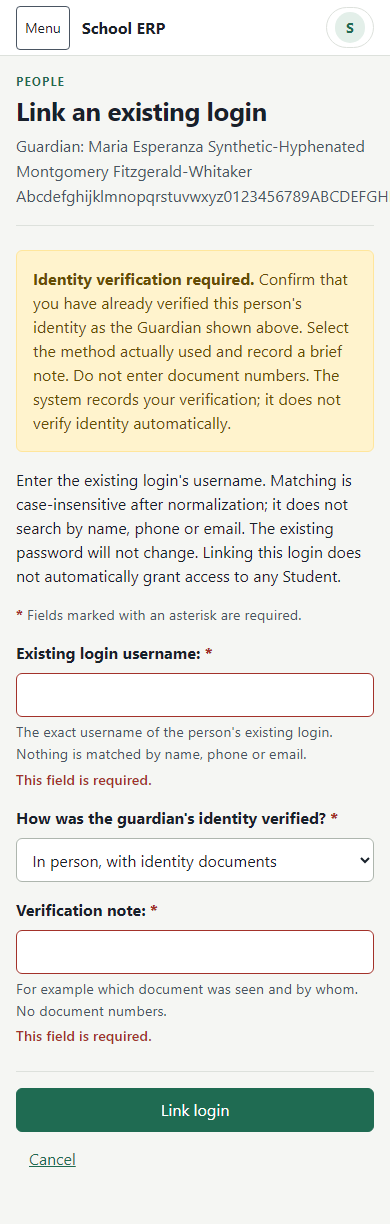
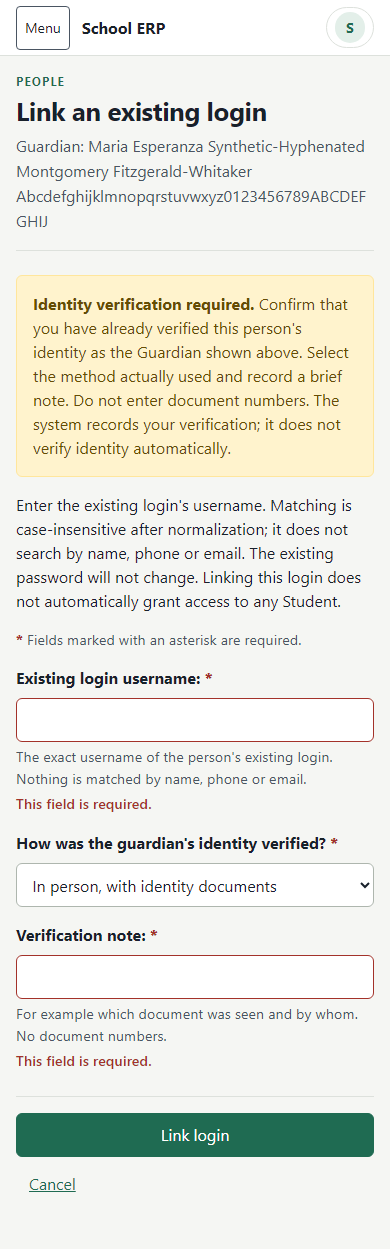
ui(guardian): wrap long unbroken names in the account form purpose line (D1-3D2 task 3)

diff --git a/static/css/erp.css b/static/css/erp.css
@@ -1278,3 +1278,7 @@ th[aria-sort="descending"] .erp-sort-link::after { content: " \25BC"; font-size:
    phone grid track and clipping. Scoped to the Guardian form wrapper so shared headers are unchanged. */
 .erp-guardian-form-page .erp-page-title { overflow-wrap: break-word; min-width: 0; }
 @media (max-width: 767.98px) { .erp-guardian-form-page .erp-page-header { grid-template-columns: minmax(0, 1fr); } }
+
+/* UI-D1-3D2 review fix: the "Guardian: <name>" purpose line wraps a long unbroken name instead of running
+   past the right gutter on phones. Scoped to the Guardian form wrapper so shared headers are unchanged. */
+.erp-guardian-form-page .erp-page-purpose { overflow-wrap: break-word; min-width: 0; }

diff --git a/core/tests/test_ui_admin_desktop_d1_3d2_guardian_account_form.py b/core/tests/test_ui_admin_desktop_d1_3d2_guardian_account_form.py
@@ -294,3 +294,18 @@ class GuardianAccountFormD13D2Tests(TestCase):
                 self.assertIn("login", response["Location"])
                 self.assertEqual(anonymous.post(url, self.data("anon.new")).status_code, 302)
         self.assertEqual(self.counts(), before)
+
+
+class GuardianAccountFormPurposeCssTests(TestCase):
+    def test_purpose_line_wraps_long_names_scoped_to_wrapper(self):
+        from pathlib import Path
+
+        from django.conf import settings
+
+        css = (Path(settings.BASE_DIR) / "static" / "css" / "erp.css").read_text(encoding="utf-8")
+        rule = re.search(
+            r"(\.erp-guardian-form-page \.erp-page-purpose)\s*\{([^}]*)\}", css
+        )
+        self.assertIsNotNone(rule)
+        self.assertIn("overflow-wrap: break-word", rule.group(2))
+        self.assertNotIn("anywhere", rule.group(2))

diff --git a/docs/ui-reviews/ui-d1-3d2/README.md b/docs/ui-reviews/ui-d1-3d2/README.md
@@ -53,7 +53,7 @@ Playwright, `Tab` from the top of the page, at 1280 and 390 (identical results f
 
 ## Known limits and observations
 
-- Defect found, not fixed (CSS and templates for the page header are out of Task 2 scope): at 390 a guardian name containing an unbroken ~46-character token overflows the "Guardian: ..." purpose line (`.erp-page-purpose` scrollWidth 382 vs clientWidth 358). The token runs into the right gutter and is clipped at the viewport edge (visible in `long-create-390.png`, `long-link-390.png`, `long-error-*-390.png`). It does not create page-level scroll and the H1 itself is fine. At 1280 the token fits. D1-3D1 fixed only the H1 wrap, so the purpose line has the same gap on the other guardian forms.
+- Fixed in Task 3 (scoped rule `.erp-guardian-form-page .erp-page-purpose { overflow-wrap: break-word; min-width: 0; }` at the end of `static/css/erp.css`): a guardian name with an unbroken ~46-character token used to overflow the "Guardian: ..." purpose line at 390 (`.erp-page-purpose` scrollWidth 382 vs clientWidth 358) and was clipped at the viewport edge. After the fix the token wraps onto its own lines: purpose scrollWidth equals clientWidth at 390 (358/358) and at 360 (328/328), the H1 fits (358/358 and 328/328), and there is no page-level overflow, in Create and Link, on GET and on a blank invalid submit. Normal-name pages and the 1280 captures are unchanged. The four `long-*-390.png` captures (`long-create`, `long-link`, `long-error-create`, `long-error-link`) were retaken; the 1280 long-name captures are byte-identical and were not replaced. The 360px check was measured only (no screenshot).
 - Error and long-name captures exist only at 390 and 1280, not all six widths.
 - The note field is a single-line input with `maxlength=200`; 200 characters are visually clipped inside the box (see `note200-error-*`).
 - The shared sidebar links show only a Bootstrap-blue box-shadow on focus (shared, unchanged).
